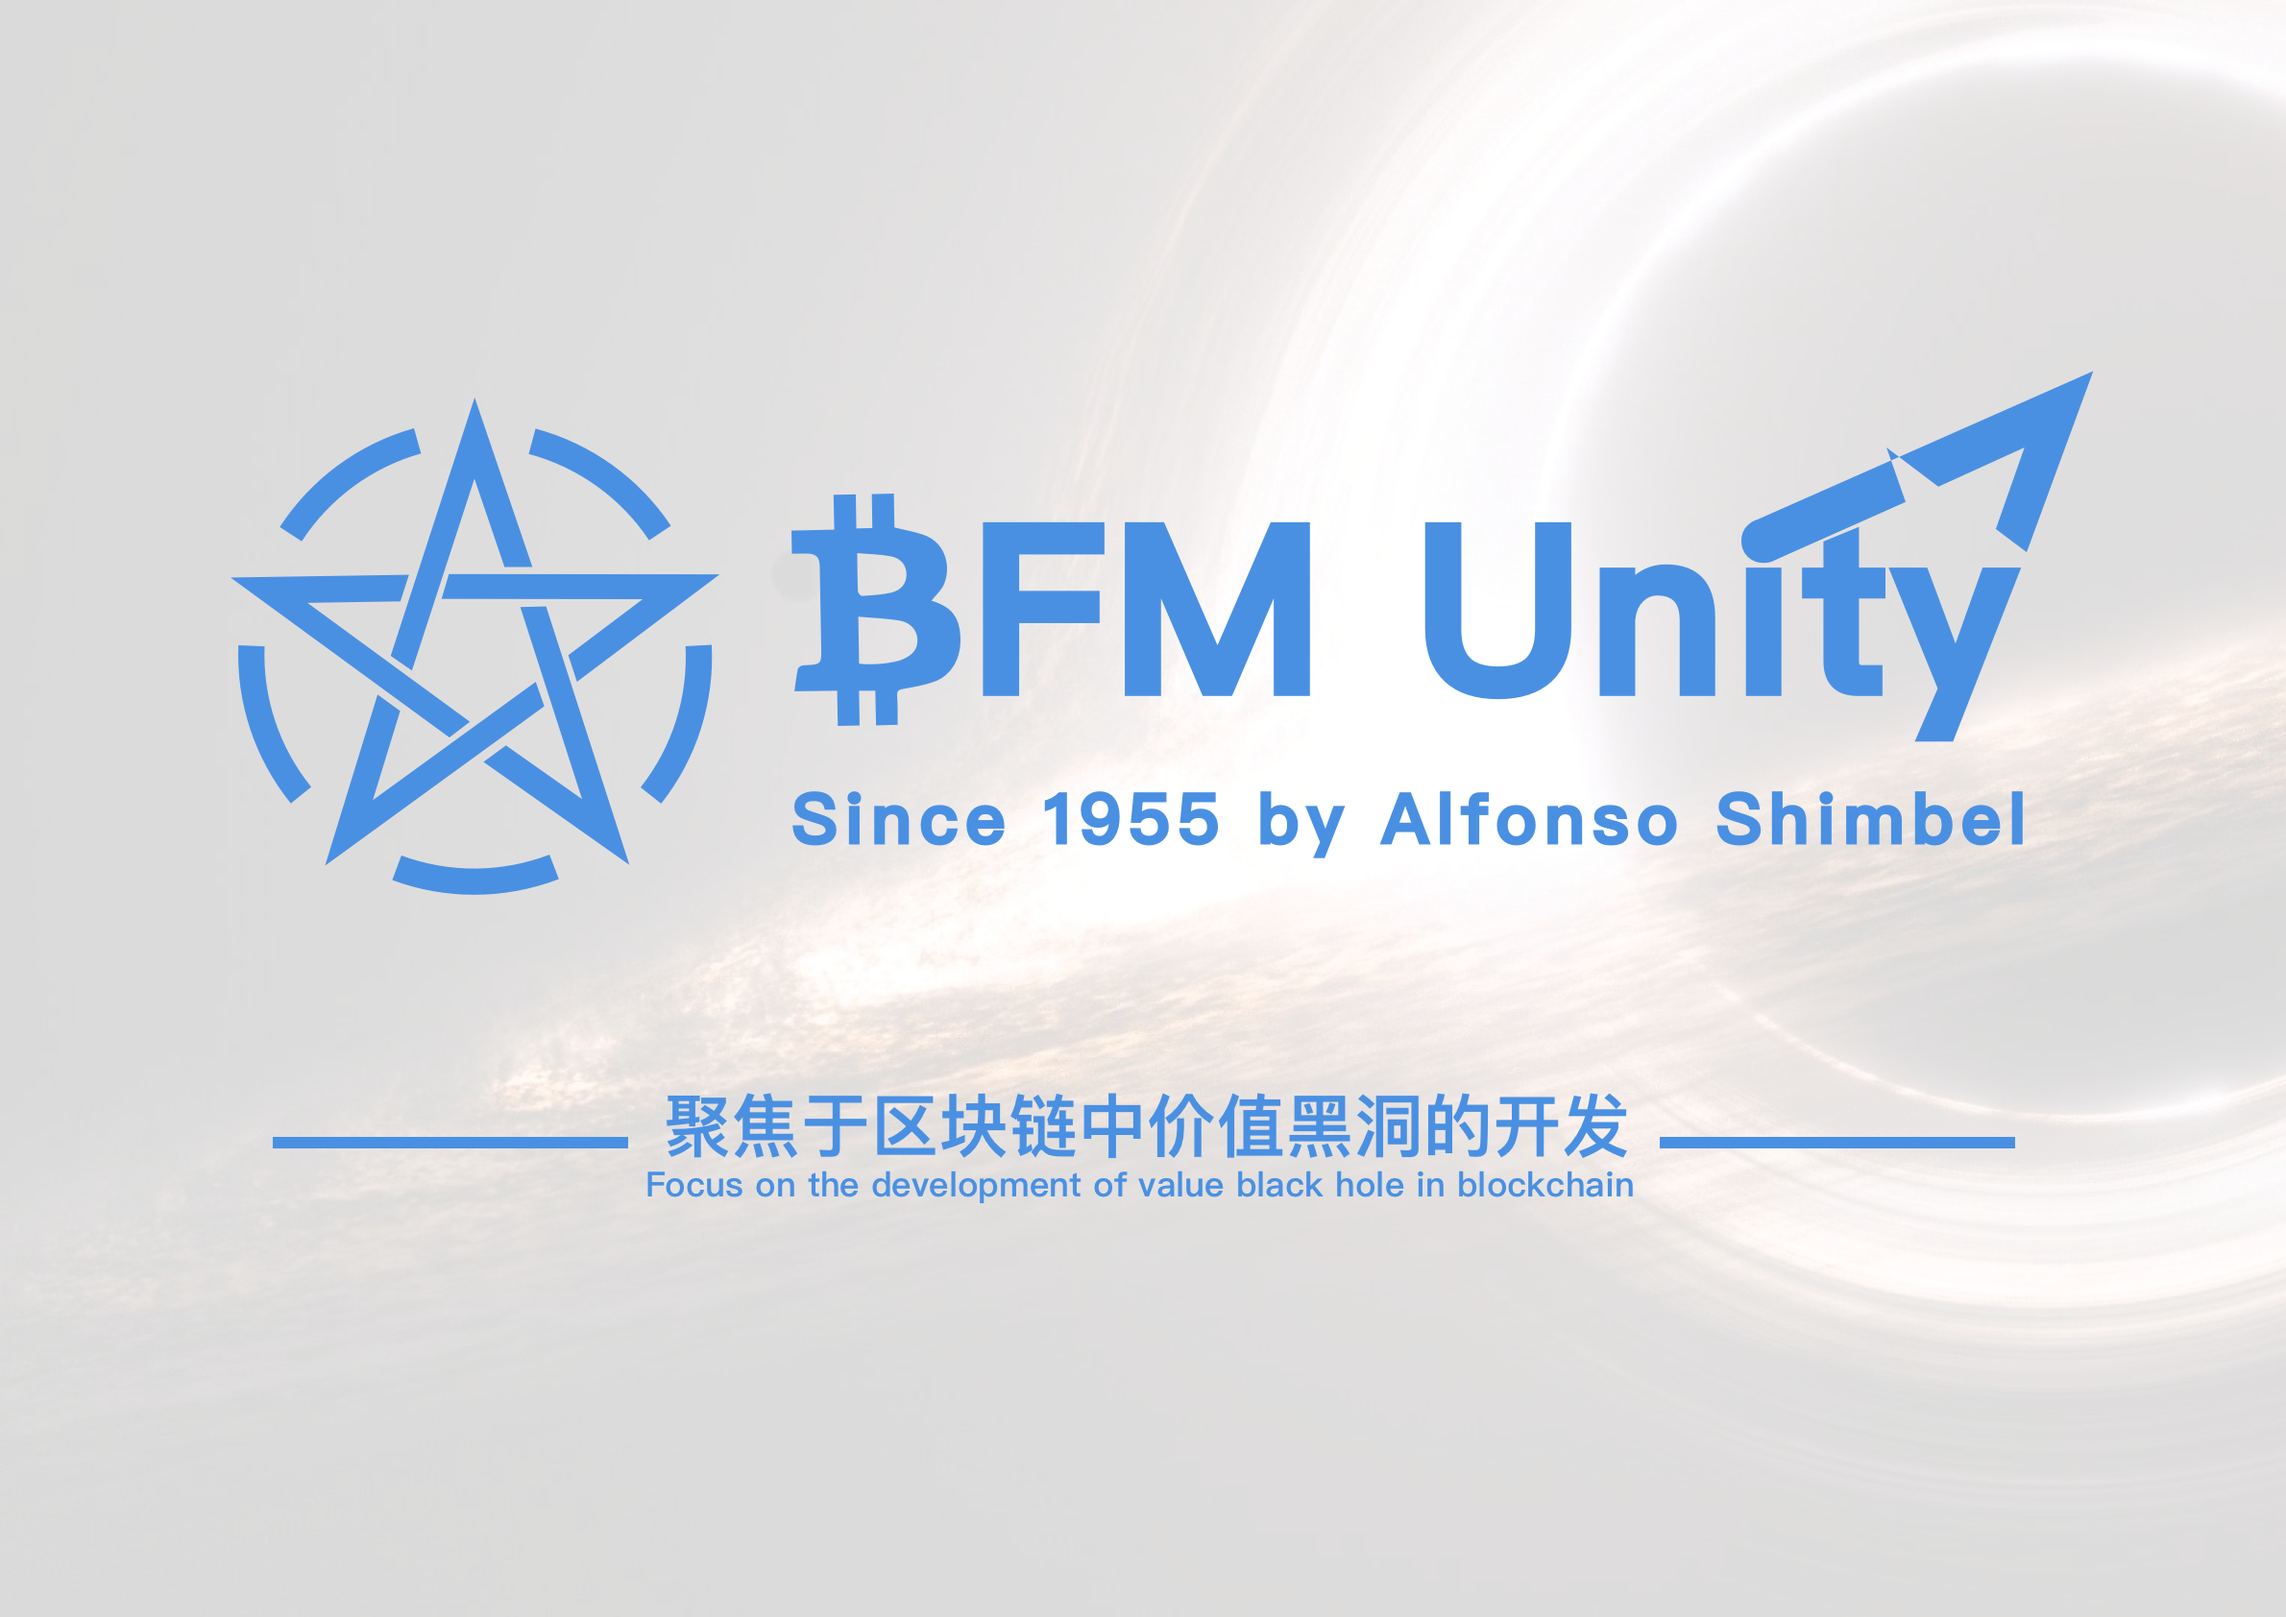
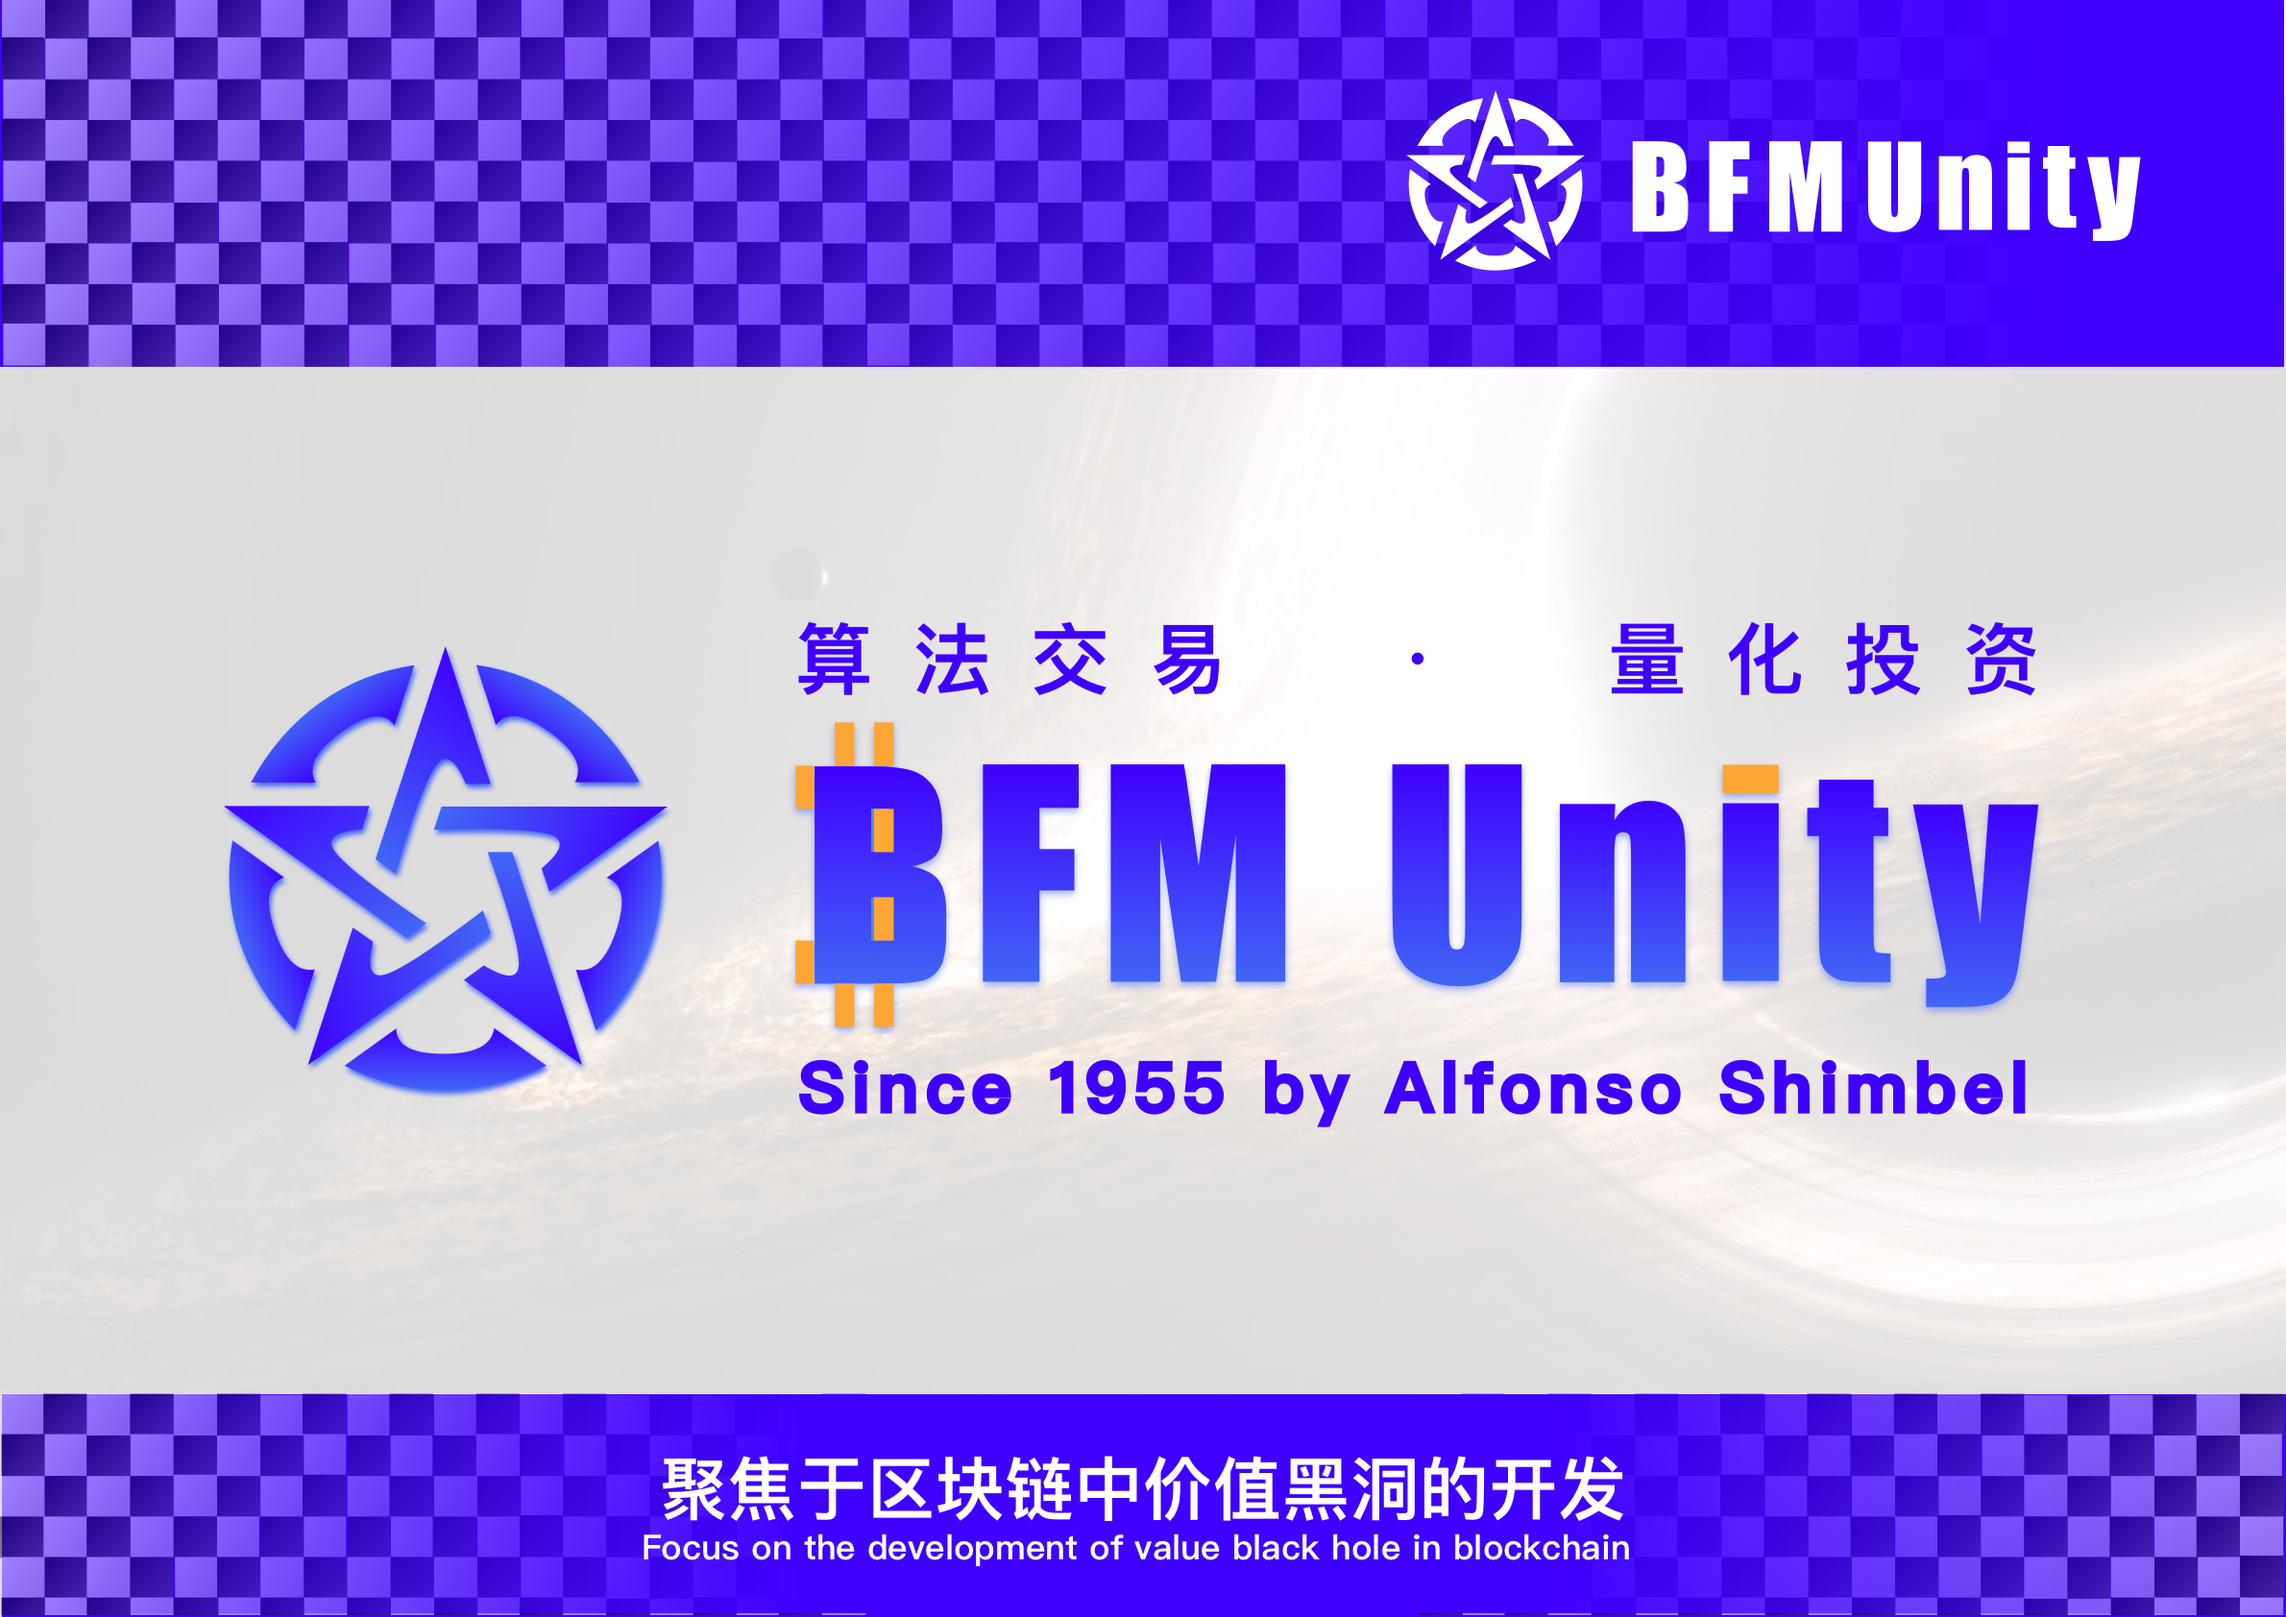
GITBOOK-3941: No subject

diff --git a/bfm-unity-bi-fang-meng-lian-he-ti/lv0-zhu-jian-qiao-yin-dao.md b/bfm-unity-bi-fang-meng-lian-he-ti/lv0-zhu-jian-qiao-yin-dao.md
@@ -20,7 +20,7 @@ NOTE: **This project is in beta. Use at your own risk.**
 ### [**系统核心代码**](https://www.bfm-unity.com/bfm-dins.-bi-fang-meng-gong-cheng-she-ji-yuan/ruan-jian-bfm-on-python) | [**投资方法论**](https://guhhhhaa.gitbook.io/joinquant/jin-rong-li-lun-zong-jie) **|** [**设计Assets**](https://share.weiyun.com/l21pilUf)
 {% endhint %}
 
-![](<../.gitbook/assets/BFM Unity 2.0 (1).png>)
+![](<../.gitbook/assets/BFM Unity 2.0.png>)
 
 ## 交易员必进
 

diff --git a/bfm-unity-bi-fang-meng-lian-he-ti/roadmap/README.md b/bfm-unity-bi-fang-meng-lian-he-ti/roadmap/README.md
@@ -28,7 +28,7 @@ description: Roadmap
 
 ## 2021.3 - 至今        价值黑洞
 
-![价值黑洞的开发](<../../.gitbook/assets/BFM Unity 2.0.png>)
+![价值黑洞的开发](<../../.gitbook/assets/BFM Unity 2.0 (2).png>)
 
 **追求稳健的盈利，致力于积累区块链宇宙中的质量**
 
